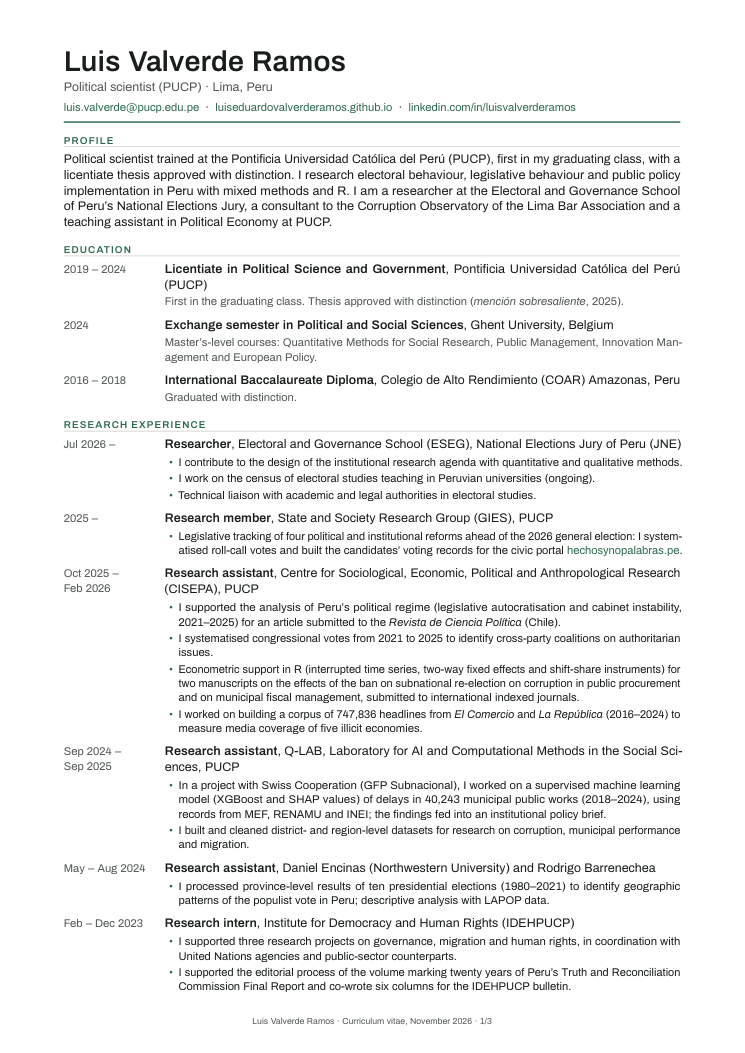
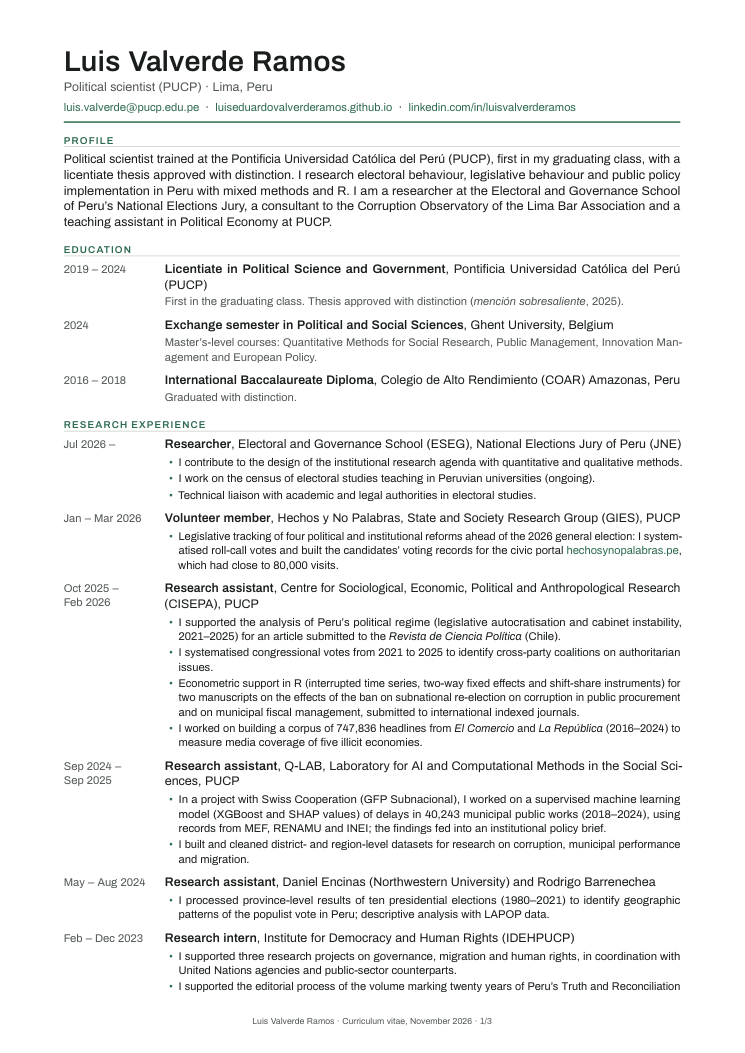
research, debate, about, cv: civic engagement; director wording; quieter About
Research: «Teaching and groups» becomes «Teaching», and a new «Civic
engagement» section holds three cards: Hechos y No Palabras (volunteer
member, Jan-Mar 2026, the portal as its founder describes it, close to
80,000 visits), electoral observer for Transparencia (2021) and DEJUCA
(2020-2023). The line cards are tinted green.

Debate and CV: the director role reads «I lead and manage the team: I run
the call for debaters and coordinate with the heads of the junior and senior
squads»; representing the team before the MED organisers goes, as Luis is
not sure of it. The CV's GIES entry is this same volunteer work, with the
same dates. Both PDFs are rebuilt.

About: the current roles sit between two hairlines, the sections get a rule
above their titles, link-only paragraphs are plain green links, list bullets
are green and the CV button is green. No text changes.

diff --git a/assets/css/main.css b/assets/css/main.css
@@ -296,6 +296,11 @@
 .s-card dl { margin: 0; display: grid; gap: 10px; font-size: 14.5px; }
 .s-card dt { font-size: 11px; font-weight: 600; letter-spacing: .05em; text-transform: uppercase; color: var(--s-ink2); }
 .s-card dd { margin: 2px 0 0; color: var(--s-ink); }
+/* Civic engagement cards: the organisation muted under the title, then one
+   sentence and the link at the foot */
+.s-card .m { margin-top: -4px; font-size: 14px; color: var(--s-ink2); }
+.s-card > p:not(.s-eyebrow):not(.m) { font-size: 14.5px; color: var(--s-ink); }
+.s-card > .s-go { justify-self: start; font-size: 14px; }
 .s-projects { display: grid; grid-template-columns: repeat(2, minmax(0, 1fr)); gap: 16px; }
 /* With an odd number of projects the first one is the featured card: it lies
    across both columns, image beside the text, and the rest pair up below.
@@ -357,10 +362,17 @@
 .s-about-side .s-btn { text-align: center; }
 .s-about-main { display: grid; gap: 14px; align-content: start; max-width: 68ch; }
 .s-prose > * + * { margin-top: 14px; }
-.s-prose h2 { margin-top: 36px; font-family: var(--s-display); font-weight: 650; font-size: 24px; line-height: 1.2; letter-spacing: -.02em; scroll-margin-top: 16px; }
+.s-prose h2 { margin-top: 40px; padding-top: 28px; border-top: 1px solid var(--s-line); font-family: var(--s-display); font-weight: 650; font-size: 24px; line-height: 1.2; letter-spacing: -.02em; scroll-margin-top: 16px; }
 .s-prose > p:first-child { font-size: 18px; color: var(--s-ink2); }
 .s-prose ul { display: grid; gap: 7px; padding-left: 18px; list-style: disc; }
+.s-prose li::marker { color: var(--s-accent); }
 .s-prose a { color: var(--s-accent); text-decoration: underline; text-underline-offset: 3px; }
+/* A paragraph that is only a link («Ver debate →»): the site's green link */
+.s-prose p > a:only-child { font-size: 15px; font-weight: 600; text-decoration: none; }
+.s-prose p > a:only-child:hover { text-decoration: underline; }
+/* The current roles, set apart by two hairlines, as a standfirst */
+.s-prose .s-current { padding-block: 14px; border-block: 1px solid var(--s-line2); color: var(--s-ink); }
+.s-prose .s-current + h2 { padding-top: 0; border-top: 0; }
 .s-prose strong { font-weight: 600; }
 .s-prose blockquote { border-left: 3px solid var(--s-line2); padding-left: 16px; font-size: 15.5px; color: var(--s-ink2); }
 .s-lines { display: grid; gap: 4px; }

diff --git a/layouts/_default/research.html b/layouts/_default/research.html
@@ -1,6 +1,7 @@
 {{ define "main" }}
 {{- /* Research / Investigación: lines as questions, projects, writing, work in
-       progress, teaching and groups. Data: research, projects and blogs. */ -}}
+       progress, teaching and civic engagement. Data: research, projects and
+       blogs. */ -}}
 {{- $d := index hugo.Data .Language.Lang -}}
 {{- $r := $d.research -}}
 {{- $t := $r.toc -}}
@@ -13,6 +14,7 @@
       <a href="#projects">{{ $t.projects }}</a>
       <a href="#writing">{{ $t.writing }}</a>
       <a href="#teaching">{{ $t.teaching }}</a>
+      {{- with $r.civic }}<a href="#civic">{{ $t.civic }}</a>{{ end }}
     </nav>
   </header>
 
@@ -88,11 +90,28 @@
       {{- range $r.teaching }}
       <div class="s-item"><span class="k">{{ .period }}</span><div><span class="t">{{ .role }}</span><span class="m">{{ .org }}</span></div></div>
       {{- end }}
-      {{- range $r.groups }}
-      <div class="s-item"><span class="k">{{ .period }}</span><div><span class="t">{{ .role }} · {{ .group }}</span><p>{{ .description }}{{ with .link }} <a class="s-go" href="{{ . }}">{{ replace . "https://" "" }} ↗</a>{{ end }}</p></div></div>
+    </div>
+  </section>
+
+  {{- with $r.civic }}
+  {{- /* Civic engagement: cards in the style of the line cards (period, title,
+         organisation, one sentence and an optional link). */}}
+  <section id="civic" class="s-section" aria-labelledby="h-civic">
+    <div class="s-section-head"><h2 id="h-civic" class="s-h2">{{ $t.civic }}</h2></div>
+    <div class="s-cards">
+      {{- range . }}
+      {{- $c := . }}
+      <article class="s-card">
+        <p class="s-eyebrow">{{ .period }}</p>
+        <h3 class="q">{{ .title }}</h3>
+        <p class="m">{{ .org }}</p>
+        <p>{{ .text }}</p>
+        {{- with .link }}<a class="s-go" href="{{ . }}">{{ $c.link_label }}</a>{{ end }}
+      </article>
       {{- end }}
     </div>
   </section>
+  {{- end }}
 
   {{- with site.GetPage "/work" }}
   <section class="s-contact">

diff --git a/layouts/_default/about.html b/layouts/_default/about.html
@@ -10,7 +10,7 @@
       {{- with .TableOfContents }}
       <nav aria-label="{{ T "onThisPage" }}">{{ . }}</nav>
       {{- end }}
-      <a class="s-btn" href="{{ partial "cv-pdf.html" . }}">{{ T "seeCV" }}</a>
+      <a class="s-btn primary" href="{{ partial "cv-pdf.html" . }}">{{ T "seeCV" }}</a>
     </aside>
     <div class="s-about-main">
       <p class="s-eyebrow">{{ .Title }}</p>

diff --git a/tools/cv/cv-es.tex b/tools/cv/cv-es.tex
@@ -32,9 +32,9 @@ Politólogo por la Pontificia Universidad Católica del Perú (PUCP), primer pue
   \item Trabajo en el censo de la enseñanza electoral universitaria (en curso).
   \item Enlace técnico con autoridades académicas y jurídicas en el campo de los estudios electorales.
   \end{puntos}}
-\entrada[2025 --]{\cargo{Miembro investigador}{Grupo de Investigación en Estado y Sociedad (GIES), PUCP}
+\entrada[Ene. -- mar. 2026]{\cargo{Miembro voluntario}{Hechos y No Palabras, Grupo de Investigación en Estado y Sociedad (GIES), PUCP}
   \begin{puntos}
-  \item Seguimiento legislativo de cuatro reformas políticas e institucionales de cara a las Elecciones Generales 2026: sistematicé votaciones nominales y construí el historial de votación de candidatos para el portal \enlace{https://hechosynopalabras.pe}{hechosynopalabras.pe}.
+  \item Seguimiento legislativo de cuatro reformas políticas e institucionales de cara a las Elecciones Generales 2026: sistematicé votaciones nominales y construí el historial de votación de candidatos para el portal \enlace{https://hechosynopalabras.pe}{hechosynopalabras.pe}, que tuvo cerca de 80\,000 visitas.
   \end{puntos}}
 \entrada[Oct. 2025 -- \newline Feb. 2026]{\cargo{Asistente de investigación}{Centro de Investigaciones Sociológicas, Económicas, Políticas y Antropológicas (CISEPA), PUCP}
   \begin{puntos}
@@ -91,10 +91,10 @@ Politólogo por la Pontificia Universidad Católica del Perú (PUCP), primer pue
 \seccion{Dirección y entrenamiento de debate}
 \begin{entradas}
 \entrada[2026 --]{\cargo{Director general}{Selección Nacional de Debate Escolar del Perú}
-  \detalle{Dirijo la convocatoria de la selección, coordino con los encargados de las selecciones junior y senior y represento a la selección ante la organización del Mundial de Debate Escolar en Español (MED).}}
+  \detalle{Dirijo y gestiono la selección: conduzco la convocatoria de debatientes y coordino con los encargados de las selecciones junior y senior.}}
 \entrada[2024 --]{\cargo{Entrenador}{equipos escolares y universitarios}
   \begin{puntos}
-  \item Selección Nacional de Debate Escolar (2025--2026): integré el equipo de entrenadores para el MED de Chile 2025 y de Panamá 2026, donde la selección obtuvo su cuarto título consecutivo; el equipo que entrené llegó a cuartos de final y quedó entre los 10 mejores oradores del torneo.
+  \item Selección Nacional de Debate Escolar (2025--2026): integré el equipo de entrenadores para el Mundial de Debate Escolar en Español (MED) de Chile 2025 y de Panamá 2026, donde la selección obtuvo su cuarto título consecutivo; el equipo que entrené llegó a cuartos de final y quedó entre los 10 mejores oradores del torneo.
   \item Coentrenador general de la Sociedad de Debate PUCP (desde julio de 2026) y entrenador del Colegio Alpamayo (desde junio de 2026).
   \item Duplas universitarias de República Dominicana, a distancia (desde 2024): en 2025, la primera dupla íntegramente dominicana en llegar a octavos de final del Campeonato Mundial Universitario de Debate en Español (CMUDE); en 2026, cuartos y octavos de final (CMUDE Ecuador).
   \end{puntos}}

diff --git a/tools/cv/cv-en.tex b/tools/cv/cv-en.tex
@@ -32,9 +32,9 @@ Political scientist trained at the Pontificia Universidad Católica del Perú (P
   \item I work on the census of electoral studies teaching in Peruvian universities (ongoing).
   \item Technical liaison with academic and legal authorities in electoral studies.
   \end{puntos}}
-\entrada[2025 --]{\cargo{Research member}{State and Society Research Group (GIES), PUCP}
+\entrada[Jan -- Mar 2026]{\cargo{Volunteer member}{Hechos y No Palabras, State and Society Research Group (GIES), PUCP}
   \begin{puntos}
-  \item Legislative tracking of four political and institutional reforms ahead of the 2026 general election: I systematised roll-call votes and built the candidates' voting records for the civic portal \enlace{https://hechosynopalabras.pe}{hechosynopalabras.pe}.
+  \item Legislative tracking of four political and institutional reforms ahead of the 2026 general election: I systematised roll-call votes and built the candidates' voting records for the civic portal \enlace{https://hechosynopalabras.pe}{hechosynopalabras.pe}, which had close to 80,000 visits.
   \end{puntos}}
 \entrada[Oct 2025 -- \newline Feb 2026]{\cargo{Research assistant}{Centre for Sociological, Economic, Political and Anthropological Research (CISEPA), PUCP}
   \begin{puntos}
@@ -91,10 +91,10 @@ Political scientist trained at the Pontificia Universidad Católica del Perú (P
 \seccion{Debate leadership and coaching}
 \begin{entradas}
 \entrada[2026 --]{\cargo{Director General}{Peruvian National Schools Debate Team}
-  \detalle{I run the team's call for debaters, coordinate with the heads of the junior and senior squads and represent the team before the organisers of the world schools championship held in Spanish (MED).}}
+  \detalle{I lead and manage the team: I run the call for debaters and coordinate with the heads of the junior and senior squads.}}
 \entrada[2024 --]{\cargo{Coach}{school and university teams}
   \begin{puntos}
-  \item Peruvian National Schools Debate Team (2025--2026): part of the coaching staff for MED Chile 2025 and MED Panama 2026, where the team won its fourth consecutive title; the team I coached reached the quarterfinals and placed among the tournament's top 10 speakers.
+  \item Peruvian National Schools Debate Team (2025--2026): part of the coaching staff for the world schools championship held in Spanish (MED), Chile 2025 and Panama 2026, where the team won its fourth consecutive title; the team I coached reached the quarterfinals and placed among the tournament's top 10 speakers.
   \item Co-head coach of the PUCP Debate Society (since July 2026) and debate coach at Colegio Alpamayo (since June 2026).
   \item University pairs from the Dominican Republic, online (since 2024): in 2025, the first all-Dominican pair to reach the round of 16 at the world universities championship held in Spanish (CMUDE); in 2026, the quarterfinals and the round of 16 (CMUDE Ecuador).
   \end{puntos}}

diff --git a/content/en/about.md b/content/en/about.md
@@ -8,6 +8,7 @@ photo_alt: "Portrait of Luis Valverde Ramos"
 I am a political scientist trained at the Pontificia Universidad Católica del Perú (PUCP). I graduated first in my class, and my licentiate thesis received a distinction (*mención sobresaliente*) in 2025. I studied on a Beca 18 scholarship, Peru's national merit award, and spent an exchange semester at Ghent University (Belgium) with a DARI scholarship. I am from Pedregal Grande (Catacaos, Piura) and work from Lima.
 
 I am currently a researcher at the Electoral and Governance School (ESEG) of Peru's National Elections Jury (JNE), a consultant to the Corruption Observatory of the Lima Bar Association and a teaching assistant in Political Economy at PUCP.
+{.s-current}
 
 ## Research
 

diff --git a/content/es/about.md b/content/es/about.md
@@ -8,6 +8,7 @@ photo_alt: "Retrato de Luis Valverde Ramos"
 Soy politólogo por la Pontificia Universidad Católica del Perú (PUCP). Egresé en el primer puesto de mi promoción y mi tesis de licenciatura fue aprobada con mención sobresaliente en 2025. Estudié la carrera con Beca 18 y pasé un semestre de intercambio en Ghent University (Bélgica) con una beca DARI. Soy de Pedregal Grande (Catacaos, Piura) y trabajo desde Lima.
 
 Hoy soy investigador en la Escuela Electoral y de Gobernabilidad (ESEG) del Jurado Nacional de Elecciones, consultor del Observatorio de Corrupción del Colegio de Abogados de Lima y jefe de práctica de Economía Política en la PUCP.
+{.s-current}
 
 ## Qué investigo
 
